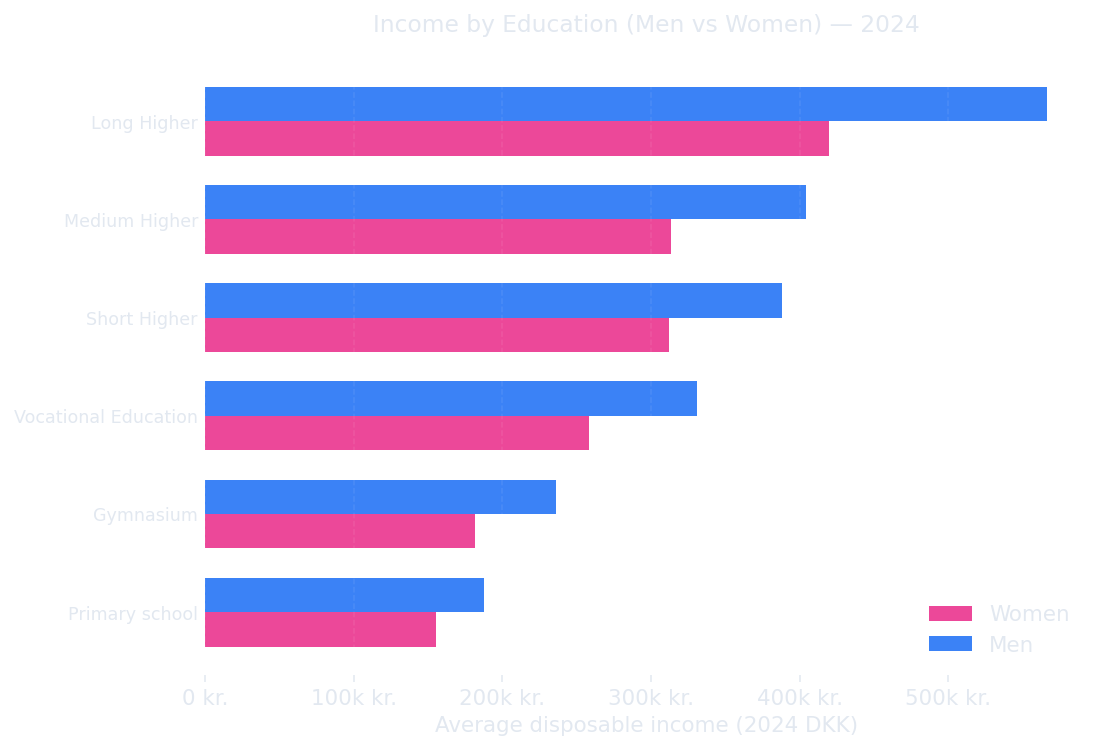
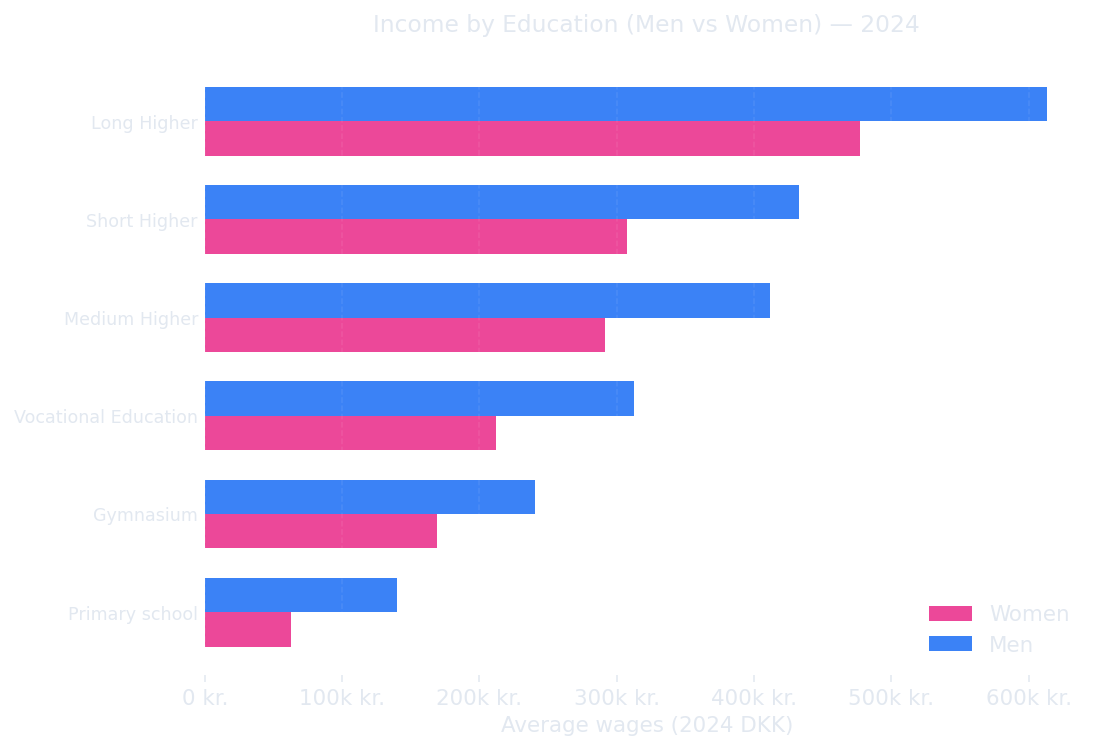
Ændret fra disposable income til wages (løn)

diff --git a/newWebsite/index.html b/newWebsite/index.html
@@ -52,7 +52,7 @@
             <p style="margin-bottom: 1rem;">If Danish women are more educated than men, why do they still earn less and
                 does this look the same everywhere in Denmark?</p>
 
-            <p style="margin-bottom: 1rem;">Denmark is small, but it is not uniform. The average disposable income in a
+            <p style="margin-bottom: 1rem;">Denmark is small, but it is not uniform. Average wages in a
                 parish north of Copenhagen can be more than 400,000 DKK higher than in a rural parish in Lolland or
                 western Jutland [8]. Equality, it turns out, has a postcode.</p>
 
@@ -113,7 +113,7 @@
             <div class="glass-card chart-card">
                 <div class="card-header">
                     <h2>The Education Payoff</h2>
-                    <p class="subtitle">Average disposable income by education level (Men vs. Women)</p>
+                    <p class="subtitle">Average wages by education level (Men vs. Women)</p>
                 </div>
                 <div class="chart-wrapper">
                     <img src="charts/chart2_education.png" alt="Income by education level" />

diff --git a/newWebsite/preprocess.py b/newWebsite/preprocess.py
@@ -33,7 +33,7 @@ GRID_COLOR = "#ffffff"
 
 # Filter values used throughout. Strings exactly as they appear in the CSV.
 UNIT_AVG_ALL = "Gennemsnit for alle personer (kr.)"
-INCOME_TYPE = "1 Disponibel indkomst (2[phone redacted])"
+INCOME_TYPE = "4 Løn"
 GENDER_TOTAL = "Mænd og kvinder i alt"
 COUNTRY = "Hele landet"
 
@@ -203,7 +203,7 @@ def chart_education(df: pd.DataFrame) -> None:
     ax.set_yticks(y)
     ax.set_yticklabels(labels, fontsize=9)
     ax.xaxis.set_major_formatter(FuncFormatter(kr_formatter))
-    ax.set_xlabel("Average disposable income (2024 DKK)")
+    ax.set_xlabel("Average wages (2024 DKK)")
     ax.legend(frameon=False, loc="lower right")
     ax.tick_params(axis="y", length=0)
     ax.grid(axis="y", visible=False)
@@ -254,7 +254,7 @@ def chart_region(df: pd.DataFrame) -> None:
     ax.set_yticks(y)
     ax.set_yticklabels(top_n.index, fontsize=9)
     ax.xaxis.set_major_formatter(FuncFormatter(kr_formatter))
-    ax.set_xlabel("Average disposable income (2024 DKK)")
+    ax.set_xlabel("Average wages (2024 DKK)")
     
     ax.legend(frameon=False, loc="lower right")
     ax.grid(axis="y", visible=False)